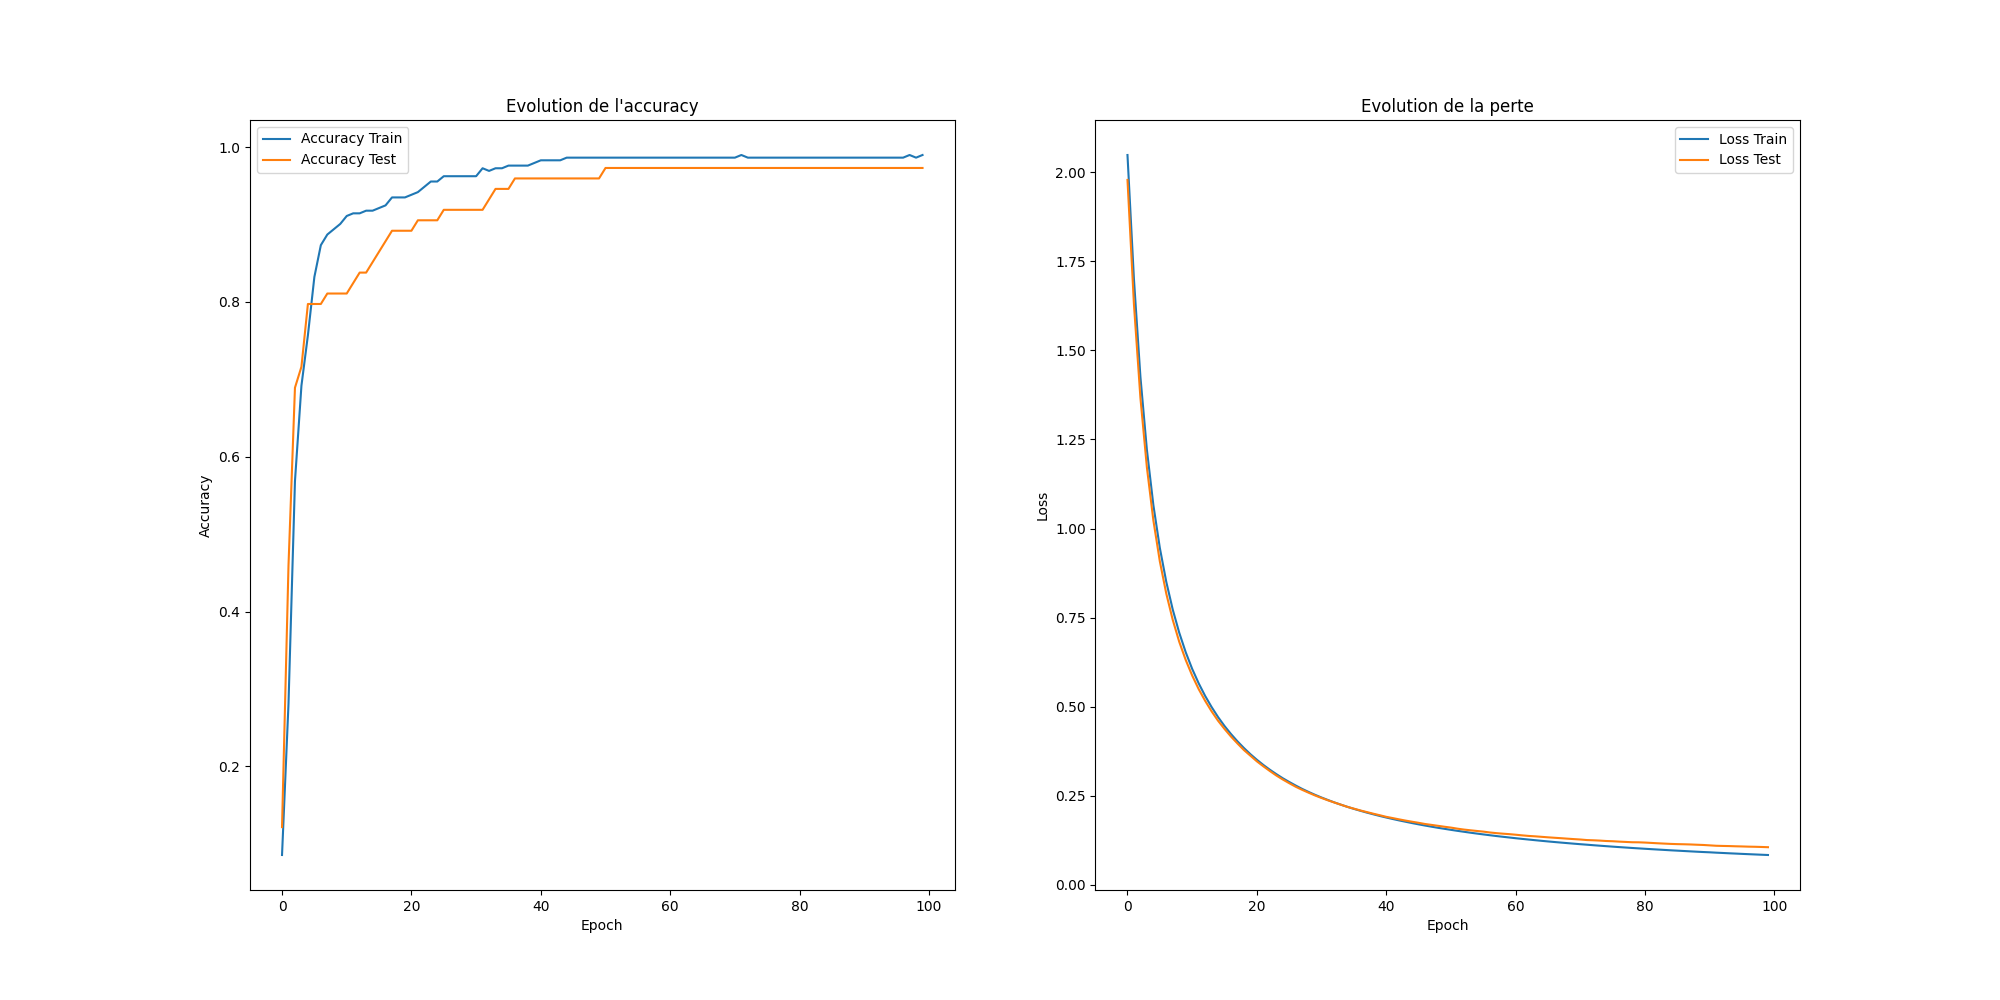
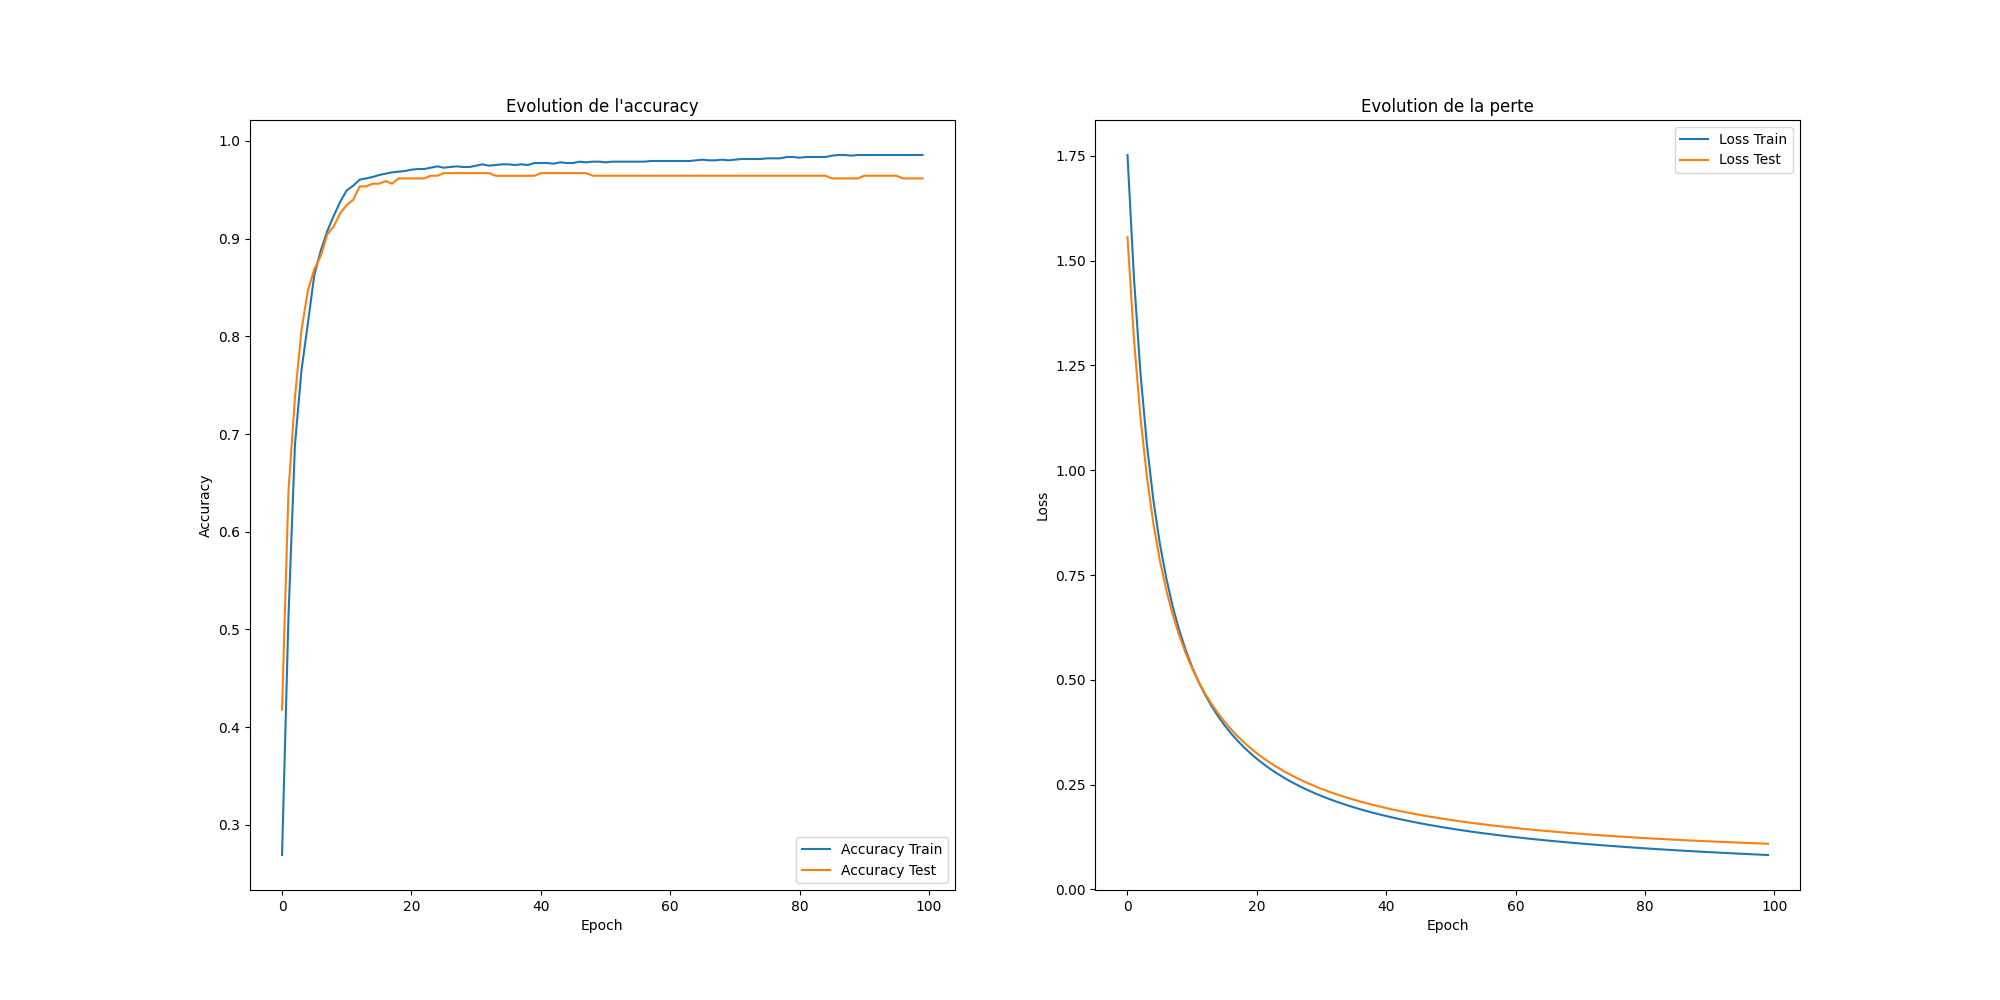
cross validation

diff --git a/rendu_7/app.py b/rendu_7/app.py
@@ -6,7 +6,9 @@ from sklearn.metrics import confusion_matrix
 from tensorflow.keras.layers import Dense, Dropout, BatchNormalization
 import seaborn as sns
 import matplotlib.pyplot as plt
+from sklearn.model_selection import KFold
 
+kf = KFold(n_splits=5, shuffle=True, random_state=42)
 
 data = pd.read_csv("rendu_7/csv_files/dermatologie.csv")
 
@@ -18,30 +20,53 @@ scaler = StandardScaler()
 X = scaler.fit_transform(X)
 
 
-model = tf.keras.models.Sequential([
+accuracies = []
+loss = []
+accuracies_test = []
+loss_test = []
+
+for train_index, test_index in kf.split(X, y):
+    x_train, x_test = X[train_index], X[test_index]
+    y_train, y_test = y[train_index], y[test_index]
+
+    model = tf.keras.models.Sequential([
             Dense(128, activation="tanh", input_shape=(X.shape[1],)),
             Dense(128, activation="tanh"),
             Dense(128, activation="tanh"),
             Dense(6, activation="softmax")
-])
+    ])
 
-optimizer = tf.keras.optimizers.SGD(learning_rate=0.001)
-model.compile(optimizer=optimizer, loss='categorical_crossentropy', metrics=['accuracy'])
+    optimizer = tf.keras.optimizers.SGD(learning_rate=0.001)
+    model.compile(optimizer=optimizer, loss='categorical_crossentropy', metrics=['accuracy'])
 
-historique = model.fit(X, y, epochs=100, validation_split=0.2, batch_size=8)
+    historique = model.fit(x_train, y_train, epochs=100, validation_data=(x_test, y_test), batch_size=8)
 
+    accuracies.append(historique.history["accuracy"])
+    accuracies_test.append(historique.history["val_accuracy"])
+    loss.append(historique.history["loss"])
+    loss_test.append(historique.history["val_loss"])
+
+accuracies = np.array(accuracies)
+loss = np.array(loss)
+accuracies_test = np.array(accuracies_test)
+loss_test = np.array(loss_test)
+
+accuracies = np.mean(accuracies, axis=0)
+loss = np.mean(loss, axis=0)
+accuracies_test = np.mean(accuracies_test, axis=0)
+loss_test = np.mean(loss_test, axis=0)
 # Affichage accuracy - loss
 fig, axs = plt.subplots(ncols=2, nrows=1, figsize=(20, 10))
 axs = axs.flatten()
-axs[0].plot(historique.history["accuracy"], label='Accuracy Train')
-axs[0].plot(historique.history["val_accuracy"], label='Accuracy Test')
+axs[0].plot(accuracies, label='Accuracy Train')
+axs[0].plot(accuracies_test, label='Accuracy Test')
 axs[0].set_title(f"Evolution de l'accuracy")
 axs[0].set_xlabel("Epoch")
 axs[0].set_ylabel("Accuracy")
 axs[0].legend()
 
-axs[1].plot(historique.history["loss"], label='Loss Train')
-axs[1].plot(historique.history["val_loss"], label='Loss Test')
+axs[1].plot(loss, label='Loss Train')
+axs[1].plot(loss_test, label='Loss Test')
 axs[1].set_title(f"Evolution de la perte")
 axs[1].set_xlabel("Epoch")
 axs[1].set_ylabel("Loss")
